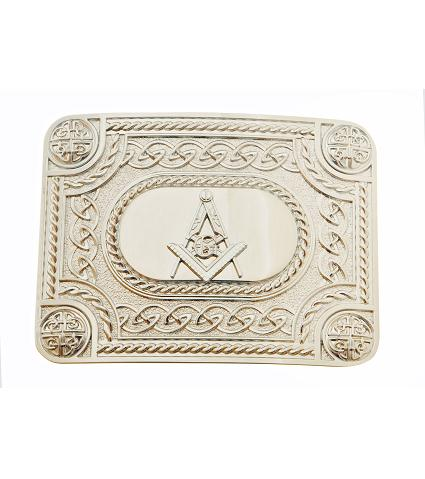
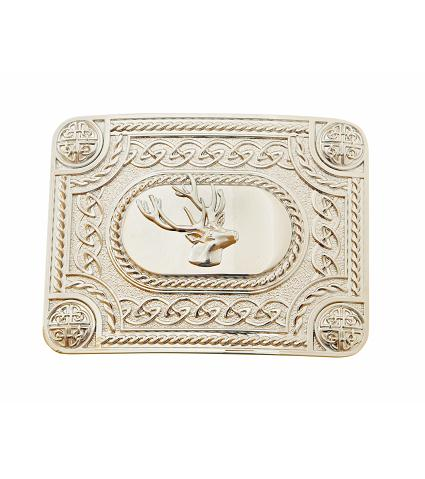
Minor UI fixes, and bug fixes.

Changed region(s): [[0.0612, 0.2338, 0.9176, 0.7891]]

diff --git a/js/js.js b/js/js.js
@@ -2,32 +2,34 @@ $( document ).ready(function() {
 	var aboutUsHTML = '<div class="uk-section uk-section-large"><div class="uk-container"><h1>Davison Menswear & Kilt Hire<br/>Established 1927.</h1><div class="uk-grid-match uk-child-width-1-2@m" uk-grid><div><p>';
 	aboutUsHTML += 'Welcome to Davison kilt hire, suppliers of the highest quality Highland & formal dress. Established in 1927 we are experienced in supplying all your needs in Scottish outfitting. <br/><br/>We believe in only supplying the best of the best and will not settle for cheap imitations so neither should our customers. When it comes to looking for a quality product with service to match, look no further.'
 	aboutUsHTML += '</p></div><div><img data-src="images/bagpipes.jpg" style="height: 100%;" alt="" uk-img></div></div></div></div>';
+	
 	var servicesHTML = '<div style="padding: 10px; height:100%" class="uk-child-width-1-3@m" uk-grid uk-scrollspy="cls: uk-animation-fade; target: > div > .uk-card; delay: 500; repeat: true">'
 	servicesHTML+= "<div style='height:100%'>"
 	servicesHTML+= '<div class="uk-card uk-card-default uk-card-body">'
 	servicesHTML+= '<h3 class="uk-card-title">Suits</h3>'
 	servicesHTML+= '<img class="serviceImg" src="images/suit1.jpg"/>'
-	servicesHTML+= "<ul><li>Morning Suits</li><li>Shirts</li><li>Jackets</li><li>Dinner Suits</li></ul>"
+	servicesHTML+= "<ul style='padding: 0px;'><li>Morning Suits</li><li>Shirts</li><li>Jackets</li><li>Dinner Suits</li></ul>"
 	servicesHTML+= "</div>"
 	servicesHTML+= "</div>"
 	servicesHTML+= "<div style='height:100%'>"
 	servicesHTML+= '<div class="uk-card uk-card-default uk-card-body">'
 	servicesHTML+= '<h3 class="uk-card-title">Kilts</h3>'
 	servicesHTML+= '<img class="serviceImg" src="images/kilt1.jpg"/>'
-	servicesHTML+= "<ul><li>Kilt Hire</li><li>Sporrans</li><li>Tartans</li></ul>"
+	servicesHTML+= "<ul style='padding: 0px;'><li>Kilt Hire</li><li>Sporrans</li><li>Tartans</li></ul>"
 	servicesHTML+= "</div>"
 	servicesHTML+= "</div>"
 	servicesHTML+= "<div style='height:100%'>"
 	servicesHTML+= '<div class="uk-card uk-card-default uk-card-body">'
 	servicesHTML+= '<h3 class="uk-card-title">Misc</h3>'
 	servicesHTML+= '<img class="serviceImg" src="images/shoes2.jpg"/>'
-	servicesHTML+= "<ul><li>Shoes</li><li>Buckles</li><li>Ex Hire Sales</li><li>Measauring</li></ul>"
+	servicesHTML+= "<ul style='padding: 0px;'><li>Shoes</li><li>Buckles</li><li>Ex Hire Sales</li><li>Measauring</li></ul>"
 	servicesHTML+= "</div>"
 	servicesHTML+= "</div>"
 	servicesHTML+= "</div>"
-	var classySporran = '<div class="uk-section uk-section-large"><div class="uk-container"><h1 id="subhead">Dress Sporrans</h1><div uk-slider>'
+
+	var classySporran = '<div class="uk-section uk-section-large"><div class="uk-container"><h1 id="subhead">Dress Sporrans</h1><div uk-slider="finite: true">'
 	classySporran += '<div class="uk-position-relative uk-visible-toggle uk-light">'
-	classySporran += '<ul class="uk-slider-items uk-child-width-1-2 uk-child-width-1-3@s uk-child-width-1-4@m">'
+	classySporran += '<ul class="uk-slider-items uk-child-width-1-2 uk-child-width-1-3@s uk-child-width-1-4@m uk-grid">'
 	classySporran += '<li class="uk-transition-toggle">'
 	classySporran += '<img src="images/dress/dress1.jpg" alt="">'
 	classySporran += '<div class="uk-overlay uk-overlay-primary uk-position-bottom uk-text-center uk-transition-slide-bottom"><h3>EW1 Chrome</h3></div>'
@@ -119,9 +121,9 @@ $( document ).ready(function() {
 	classySporran += '<ul class="uk-slider-nav uk-dotnav uk-flex-center uk-margin"></ul>'
 	classySporran += '</div></div></div>'
 
-	var semiSporran = '<div class="uk-section uk-section-large"><div class="uk-container"><h1 id="subhead">Semi-Dress Sporrans</h1><div uk-slider>'
+	var semiSporran = '<div class="uk-section uk-section-large"><div class="uk-container"><h1 id="subhead">Semi-Dress Sporrans</h1><div uk-slider="finite: true">'
 	semiSporran += '<div class="uk-position-relative uk-visible-toggle uk-light">'
-	semiSporran += '<ul class="uk-slider-items uk-child-width-1-2 uk-child-width-1-3@s uk-child-width-1-4@m">'
+	semiSporran += '<ul class="uk-slider-items uk-child-width-1-2 uk-child-width-1-3@s uk-child-width-1-4@m uk-grid">'
 	semiSporran += '<li class="uk-transition-toggle">'
 	semiSporran += '<img src="images/semi/semi1.jpg" alt="">'
 	semiSporran += '<div class="uk-overlay uk-overlay-primary uk-position-bottom uk-text-center uk-transition-slide-bottom"><h3>SHEP</h3></div>'
@@ -213,9 +215,9 @@ $( document ).ready(function() {
 	semiSporran += '<ul class="uk-slider-nav uk-dotnav uk-flex-center uk-margin"></ul>'
 	semiSporran += '</div></div></div>'
 
-	var daySporran = '<div class="uk-section uk-section-large"><div class="uk-container"><h1 id="subhead">Day Sporrans</h1><div uk-slider>'
+	var daySporran = '<div class="uk-section uk-section-large"><div class="uk-container"><h1 id="subhead">Day Sporrans</h1><div uk-slider="finite: true">'
 	daySporran += '<div class="uk-position-relative uk-visible-toggle uk-light">'
-	daySporran += '<ul class="uk-slider-items uk-child-width-1-2 uk-child-width-1-3@s uk-child-width-1-4@m">'
+	daySporran += '<ul class="uk-slider-items uk-child-width-1-2 uk-child-width-1-3@s uk-child-width-1-4@m uk-grid">'
 	daySporran += '<li class="uk-transition-toggle">'
 	daySporran += '<img src="images/day/day1.jpg" alt="">'
 	daySporran += '<div class="uk-overlay uk-overlay-primary uk-position-bottom uk-text-center uk-transition-slide-bottom"><h3>8GS</h3></div>'
@@ -307,9 +309,9 @@ $( document ).ready(function() {
 	daySporran += '<ul class="uk-slider-nav uk-dotnav uk-flex-center uk-margin"></ul>'
 	daySporran += '</div></div></div>'
 
-	var boySporran = '<div class="uk-section uk-section-large"><div class="uk-container"><h1 id="subhead">Boys Sporrans</h1><div uk-slider>'
+	var boySporran = '<div class="uk-section uk-section-large"><div class="uk-container"><h1 id="subhead">Boys Sporrans</h1><div uk-slider="finite: true">'
 	boySporran += '<div class="uk-position-relative uk-visible-toggle uk-light">'
-	boySporran += '<ul class="uk-slider-items uk-child-width-1-1 uk-child-width-1-3@s uk-child-width-1-3@m">'
+	boySporran += '<ul class="uk-slider-items uk-child-width-1-1 uk-child-width-1-3@s uk-child-width-1-3@m uk-grid">'
 	boySporran += '<li class="uk-transition-toggle">'
 	boySporran += '<img src="images/boy/boy1.jpg" alt="">'
 	boySporran += '<div class="uk-overlay uk-overlay-primary uk-position-bottom uk-text-center uk-transition-slide-bottom"><h3>8GS</h3></div>'
@@ -329,9 +331,9 @@ $( document ).ready(function() {
 	boySporran += '<ul class="uk-slider-nav uk-dotnav uk-flex-center uk-margin"></ul>'
 	boySporran += '</div></div></div>'
 
-	var tartanHTML = '<div class="uk-section uk-section-large"><div class="uk-container"><h1 id="subhead">Tartans</h1><div uk-slider>'
+	var tartanHTML = '<div class="uk-section uk-section-large"><div class="uk-container"><h1 id="subhead">Tartans</h1><div uk-slider="finite: true">'
 	tartanHTML += '<div class="uk-position-relative uk-visible-toggle uk-light">'
-	tartanHTML += '<ul class="uk-slider-items uk-child-width-1-2 uk-child-width-1-3@s uk-child-width-1-4@m">'
+	tartanHTML += '<ul class="uk-slider-items uk-child-width-1-2 uk-child-width-1-3@s uk-child-width-1-4@m uk-grid">'
 	tartanHTML += '<li class="uk-transition-toggle">'
 	tartanHTML += '<img src="images/tartan/tartan1.jpg" alt="">'
 	tartanHTML += '<div class="uk-overlay uk-overlay-primary uk-position-bottom uk-text-center uk-transition-slide-bottom"><h3>Davidson Modern</h3></div>'
@@ -379,9 +381,9 @@ $( document ).ready(function() {
 	tartanHTML += '<ul class="uk-slider-nav uk-dotnav uk-flex-center uk-margin"></ul>'
 	tartanHTML += '</div></div></div>'
 
-	var beltHTML = '<div class="uk-section uk-section-large"><div class="uk-container"><h1 id="subhead">Belts</h1><div uk-slider>'
+	var beltHTML = '<div class="uk-section uk-section-large"><div class="uk-container"><h1 id="subhead">Belts</h1><div uk-slider="finite: true">'
 	beltHTML += '<div class="uk-position-relative uk-visible-toggle uk-light">'
-	beltHTML += '<ul class="uk-slider-items uk-child-width-1-2 uk-child-width-1-3@s uk-child-width-1-4@m">'
+	beltHTML += '<ul class="uk-slider-items uk-child-width-1-2 uk-child-width-1-3@s uk-child-width-1-4@m uk-grid">'
 	beltHTML += '<li class="uk-transition-toggle">'
 	beltHTML += '<img src="images/belt/belt1.jpg" alt="">'
 	beltHTML += '<div class="uk-overlay uk-overlay-primary uk-position-bottom uk-text-center uk-transition-slide-bottom"><h3>Unlined Belt</h3></div>'
@@ -429,9 +431,9 @@ $( document ).ready(function() {
 	beltHTML += '<ul class="uk-slider-nav uk-dotnav uk-flex-center uk-margin"></ul>'
 	beltHTML += '</div></div></div>'
 
-	var buckleHTML = '<div class="uk-section uk-section-large"><div class="uk-container"><h1 id="subhead">Buckles</h1><div uk-slider>'
+	var buckleHTML = '<div class="uk-section uk-section-large"><div class="uk-container"><h1 id="subhead">Buckles</h1><div uk-slider="finite: true">'
 	buckleHTML += '<div class="uk-position-relative uk-visible-toggle uk-light">'
-	buckleHTML += '<ul class="uk-slider-items uk-child-width-1-2 uk-child-width-1-3@s uk-child-width-1-4@m">'
+	buckleHTML += '<ul class="uk-slider-items uk-child-width-1-2 uk-child-width-1-3@s uk-child-width-1-4@m uk-grid">'
 	buckleHTML += '<li class="uk-transition-toggle">'
 	buckleHTML += '<img src="images/buckle/buckle1.jpg" alt="">'
 	buckleHTML += '<div class="uk-overlay uk-overlay-primary uk-position-bottom uk-text-center uk-transition-slide-bottom"><h3>Celtic Chrome</h3></div>'
@@ -473,31 +475,31 @@ $( document ).ready(function() {
 	buckleHTML += '<div class="uk-overlay uk-overlay-primary uk-position-bottom uk-text-center uk-transition-slide-bottom"><h3>Plain Lion Chrome</h3></div>'
 	buckleHTML += '</li>'
 	buckleHTML += '<li class="uk-transition-toggle">'
-	buckleHTML += '<img src="images/buckle/buckle10.jpg" alt="">'
+	buckleHTML += '<img src="images/buckle/buckle11.jpg" alt="">'
 	buckleHTML += '<div class="uk-overlay uk-overlay-primary uk-position-bottom uk-text-center uk-transition-slide-bottom"><h3>Plain Stag Chrome</h3></div>'
 	buckleHTML += '</li>'
 	buckleHTML += '<li class="uk-transition-toggle">'
-	buckleHTML += '<img src="images/buckle/buckle10.jpg" alt="">'
+	buckleHTML += '<img src="images/buckle/buckle12.jpg" alt="">'
 	buckleHTML += '<div class="uk-overlay uk-overlay-primary uk-position-bottom uk-text-center uk-transition-slide-bottom"><h3>Plain Masonic Chrome</h3></div>'
 	buckleHTML += '</li>'
 	buckleHTML += '<li class="uk-transition-toggle">'
-	buckleHTML += '<img src="images/buckle/buckle10.jpg" alt="">'
+	buckleHTML += '<img src="images/buckle/buckle13.jpg" alt="">'
 	buckleHTML += '<div class="uk-overlay uk-overlay-primary uk-position-bottom uk-text-center uk-transition-slide-bottom"><h3>Celtic Thistle Chrome</h3></div>'
 	buckleHTML += '</li>'
 	buckleHTML += '<li class="uk-transition-toggle">'
-	buckleHTML += '<img src="images/buckle/buckle10.jpg" alt="">'
+	buckleHTML += '<img src="images/buckle/buckle14.jpg" alt="">'
 	buckleHTML += '<div class="uk-overlay uk-overlay-primary uk-position-bottom uk-text-center uk-transition-slide-bottom"><h3>Celtic Lion Chrome</h3></div>'
 	buckleHTML += '</li>'
 	buckleHTML += '<li class="uk-transition-toggle">'
-	buckleHTML += '<img src="images/buckle/buckle10.jpg" alt="">'
+	buckleHTML += '<img src="images/buckle/buckle15.jpg" alt="">'
 	buckleHTML += '<div class="uk-overlay uk-overlay-primary uk-position-bottom uk-text-center uk-transition-slide-bottom"><h3>Celtic Stag Chrome</h3></div>'
 	buckleHTML += '</li>'
 	buckleHTML += '<li class="uk-transition-toggle">'
-	buckleHTML += '<img src="images/buckle/buckle10.jpg" alt="">'
+	buckleHTML += '<img src="images/buckle/buckle16.jpg" alt="">'
 	buckleHTML += '<div class="uk-overlay uk-overlay-primary uk-position-bottom uk-text-center uk-transition-slide-bottom"><h3>Plain Masonic Chrome</h3></div>'
 	buckleHTML += '</li>'
 	buckleHTML += '<li class="uk-transition-toggle">'
-	buckleHTML += '<img src="images/buckle/buckle10.jpg" alt="">'
+	buckleHTML += '<img src="images/buckle/buckle17.jpg" alt="">'
 	buckleHTML += '<div class="uk-overlay uk-overlay-primary uk-position-bottom uk-text-center uk-transition-slide-bottom"><h3>WES12 Chrome Enamel</h3></div>'
 	buckleHTML += '</li>'
 	buckleHTML += '</ul>'
@@ -507,9 +509,9 @@ $( document ).ready(function() {
 	buckleHTML += '<ul class="uk-slider-nav uk-dotnav uk-flex-center uk-margin"></ul>'
 	buckleHTML += '</div></div></div>'
 
-	var skeanHTML = '<div class="uk-section uk-section-large"><div class="uk-container"><h1 id="subhead">Skean Dhus</h1><div uk-slider>'
+	var skeanHTML = '<div class="uk-section uk-section-large"><div class="uk-container"><h1 id="subhead">Skean Dhus</h1><div uk-slider="finite: true">'
 	skeanHTML += '<div class="uk-position-relative uk-visible-toggle uk-light">'
-	skeanHTML += '<ul class="uk-slider-items uk-child-width-1-2 uk-child-width-1-3@s uk-child-width-1-4@m">'
+	skeanHTML += '<ul class="uk-slider-items uk-child-width-1-2 uk-child-width-1-3@s uk-child-width-1-4@m uk-grid">'
 	skeanHTML += '<li class="uk-transition-toggle">'
 	skeanHTML += '<img src="images/skean/skean1.jpg" alt="">'
 	skeanHTML += '<div class="uk-overlay uk-overlay-primary uk-position-bottom uk-text-center uk-transition-slide-bottom"><h3>Topaz Stone</h3></div>'
@@ -551,23 +553,23 @@ $( document ).ready(function() {
 	skeanHTML += '<div class="uk-overlay uk-overlay-primary uk-position-bottom uk-text-center uk-transition-slide-bottom"><h3>SK-C</h3></div>'
 	skeanHTML += '</li>'
 	skeanHTML += '<li class="uk-transition-toggle">'
-	skeanHTML += '<img src="images/skean/skean10.jpg" alt="">'
+	skeanHTML += '<img src="images/skean/skean11.jpg" alt="">'
 	skeanHTML += '<div class="uk-overlay uk-overlay-primary uk-position-bottom uk-text-center uk-transition-slide-bottom"><h3>Topaz Stone Thistle Antique</h3></div>'
 	skeanHTML += '</li>'
 	skeanHTML += '<li class="uk-transition-toggle">'
-	skeanHTML += '<img src="images/skean/skean10.jpg" alt="">'
+	skeanHTML += '<img src="images/skean/skean12.jpg" alt="">'
 	skeanHTML += '<div class="uk-overlay uk-overlay-primary uk-position-bottom uk-text-center uk-transition-slide-bottom"><h3>Blue Stone Thistle Antique</h3></div>'
 	skeanHTML += '</li>'
 	skeanHTML += '<li class="uk-transition-toggle">'
-	skeanHTML += '<img src="images/skean/skean10.jpg" alt="">'
+	skeanHTML += '<img src="images/skean/skean13.jpg" alt="">'
 	skeanHTML += '<div class="uk-overlay uk-overlay-primary uk-position-bottom uk-text-center uk-transition-slide-bottom"><h3>Am Stone Thistle Antique</h3></div>'
 	skeanHTML += '</li>'
 	skeanHTML += '<li class="uk-transition-toggle">'
-	skeanHTML += '<img src="images/skean/skean10.jpg" alt="">'
+	skeanHTML += '<img src="images/skean/skean14.jpg" alt="">'
 	skeanHTML += '<div class="uk-overlay uk-overlay-primary uk-position-bottom uk-text-center uk-transition-slide-bottom"><h3>Green Stone Thistle Antique</h3></div>'
 	skeanHTML += '</li>'
 	skeanHTML += '<li class="uk-transition-toggle">'
-	skeanHTML += '<img src="images/skean/skean10.jpg" alt="">'
+	skeanHTML += '<img src="images/skean/skean15.jpg" alt="">'
 	skeanHTML += '<div class="uk-overlay uk-overlay-primary uk-position-bottom uk-text-center uk-transition-slide-bottom"><h3>Green Stone Shamrock</h3></div>'
 	skeanHTML += '</li>'
 	skeanHTML += '</ul>'
@@ -577,9 +579,9 @@ $( document ).ready(function() {
 	skeanHTML += '<ul class="uk-slider-nav uk-dotnav uk-flex-center uk-margin"></ul>'
 	skeanHTML += '</div></div></div>'
 
-	var pinHTML = '<div class="uk-section uk-section-large"><div class="uk-container"><h1 id="subhead">Kilt Pins</h1><div uk-slider>'
+	var pinHTML = '<div class="uk-section uk-section-large"><div class="uk-container"><h1 id="subhead">Kilt Pins</h1><div uk-slider="finite: true">'
 	pinHTML += '<div class="uk-position-relative uk-visible-toggle uk-light">'
-	pinHTML += '<ul class="uk-slider-items uk-child-width-1-2 uk-child-width-1-3@s uk-child-width-1-4@m">'
+	pinHTML += '<ul class="uk-slider-items uk-child-width-1-2 uk-child-width-1-3@s uk-child-width-1-4@m uk-grid">'
 	pinHTML += '<li class="uk-transition-toggle">'
 	pinHTML += '<img src="images/pin/pin1.jpg" alt="">'
 	pinHTML += '<div class="uk-overlay uk-overlay-primary uk-position-bottom uk-text-center uk-transition-slide-bottom"><h3>Sword</h3></div>'
@@ -621,27 +623,27 @@ $( document ).ready(function() {
 	pinHTML += '<div class="uk-overlay uk-overlay-primary uk-position-bottom uk-text-center uk-transition-slide-bottom"><h3>Stag And Hound</h3></div>'
 	pinHTML += '</li>'
 	pinHTML += '<li class="uk-transition-toggle">'
-	pinHTML += '<img src="images/pin/pin10.jpg" alt="">'
+	pinHTML += '<img src="images/pin/pin11.jpg" alt="">'
 	pinHTML += '<div class="uk-overlay uk-overlay-primary uk-position-bottom uk-text-center uk-transition-slide-bottom"><h3>Maple Bulldog</h3></div>'
 	pinHTML += '</li>'
 	pinHTML += '<li class="uk-transition-toggle">'
-	pinHTML += '<img src="images/pin/pin10.jpg" alt="">'
+	pinHTML += '<img src="images/pin/pin12.jpg" alt="">'
 	pinHTML += '<div class="uk-overlay uk-overlay-primary uk-position-bottom uk-text-center uk-transition-slide-bottom"><h3>Stag Bulldog</h3></div>'
 	pinHTML += '</li>'
 	pinHTML += '<li class="uk-transition-toggle">'
-	pinHTML += '<img src="images/pin/pin10.jpg" alt="">'
+	pinHTML += '<img src="images/pin/pin13.jpg" alt="">'
 	pinHTML += '<div class="uk-overlay uk-overlay-primary uk-position-bottom uk-text-center uk-transition-slide-bottom"><h3>Sword Thistle Bulldog</h3></div>'
 	pinHTML += '</li>'
 	pinHTML += '<li class="uk-transition-toggle">'
-	pinHTML += '<img src="images/pin/pin10.jpg" alt="">'
+	pinHTML += '<img src="images/pin/pin14.jpg" alt="">'
 	pinHTML += '<div class="uk-overlay uk-overlay-primary uk-position-bottom uk-text-center uk-transition-slide-bottom"><h3>2-Thistle Bulldog</h3></div>'
 	pinHTML += '</li>'
 	pinHTML += '<li class="uk-transition-toggle">'
-	pinHTML += '<img src="images/pin/pin10.jpg" alt="">'
+	pinHTML += '<img src="images/pin/pin15.jpg" alt="">'
 	pinHTML += '<div class="uk-overlay uk-overlay-primary uk-position-bottom uk-text-center uk-transition-slide-bottom"><h3>Oval Bulldog</h3></div>'
 	pinHTML += '</li>'
 	pinHTML += '<li class="uk-transition-toggle">'
-	pinHTML += '<img src="images/pin/pin10.jpg" alt="">'
+	pinHTML += '<img src="images/pin/pin16.jpg" alt="">'
 	pinHTML += '<div class="uk-overlay uk-overlay-primary uk-position-bottom uk-text-center uk-transition-slide-bottom"><h3>Plain Sword Bulldog</h3></div>'
 	pinHTML += '</li>'
 	pinHTML += '</ul>'
@@ -653,8 +655,10 @@ $( document ).ready(function() {
 	$("#mbod").html(aboutUsHTML);
 
 	$( ".menubut" ).click(function( event ) {
-		$(".menubut").removeClass("uk-active");
-		$(".menubut").children().removeClass("uk-active");
+		if(!$(this).children().text().startsWith("Products")){
+			$(".menubut").removeClass("uk-active");
+			$(".menubut").children().removeClass("uk-active")
+		}
 		$(this).addClass("uk-active");
 		if($(this).children().text() == "Services") {
 			$("#mbod").html(servicesHTML);
@@ -664,7 +668,7 @@ $( document ).ready(function() {
 		}
 		if($(this).children().text().startsWith("Dress")) {
 			$("#mbod").html(classySporran);
-			$(this).children().addClass("uk-active")
+			$(this).addClass("uk-active")
 		}			
 		if($(this).children().text().startsWith("Semi")) {
 			$("#mbod").html(semiSporran);
@@ -690,7 +694,15 @@ $( document ).ready(function() {
 			$("#mbod").html(buckleHTML);
 			$(this).children().addClass("uk-active")
 		}
-		console.log($(this).children().text());
+		if($(this).children().text().startsWith("Skean")) {
+			$("#mbod").html(skeanHTML);
+			$(this).children().addClass("uk-active")
+		}
+		if($(this).children().text().startsWith("Kilt Pin")) {
+			$("#mbod").html(pinHTML);
+			$(this).children().addClass("uk-active")
+		}
+		console.log("childen text "+ $(this).children().text());
 	});
 
 	$("#productsNav").hover(

diff --git a/index.html b/index.html
@@ -61,8 +61,8 @@
 		<div class="uk-section">
 			<div class="uk-container" style="padding-left:25px; padding-right:25px">
 				<div class="uk-grid-match uk-child-width-1-3@m" uk-grid>
-					<div>
-						<iframe src="https://www.google.com/maps/embed?pb=!1m14!1m8!1m3!1d8938.275654656887!2d-3.204802!3d55.9395108!3m2!1i1024!2i768!4f13.1!3m3!1m2!1s0x0%3A0x1d0675edf90601c9!2sDavison+Menswear!5e0!3m2!1sen!2suk!4v1527535608538" width="200" height="180" frameborder="0" style="border:0" allowfullscreen></iframe>
+					<div >
+						<iframe src="https://www.google.com/maps/embed?pb=!1m14!1m8!1m3!1d8938.275654656887!2d-3.204802!3d55.9395108!3m2!1i1024!2i768!4f13.1!3m3!1m2!1s0x0%3A0x1d0675edf90601c9!2sDavison+Menswear!5e0!3m2!1sen!2suk!4v1527535608538" width="150" height="150" frameborder="0" allowfullscreen></iframe>
 					</div>
 					<div>
 						<table class="uk-table">
@@ -85,12 +85,6 @@
 					</div>
 					<div>
 						<table class="uk-table">
-							<thead>
-								<tr>
-									<th>Day</th>
-									<th class="time">Opening Times</th>
-								</tr>
-							</thead>
 							<tbody>
 								<tr>
 									<td class="day">Monday</td>
